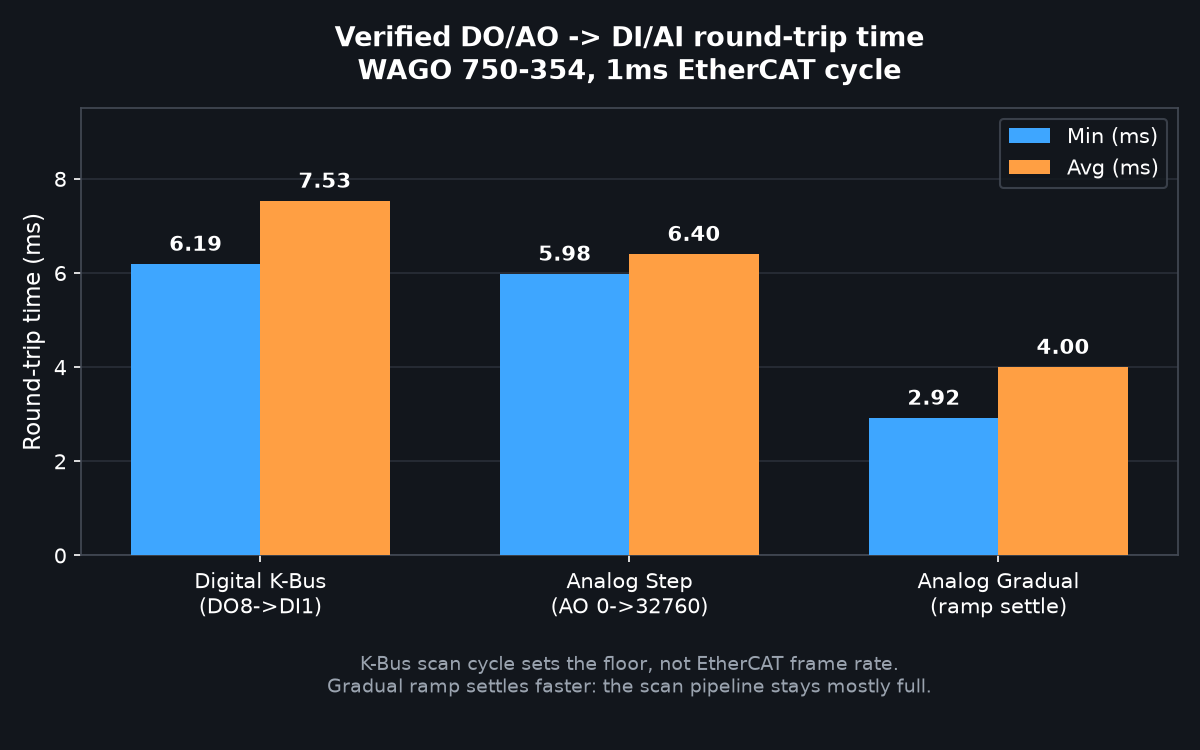
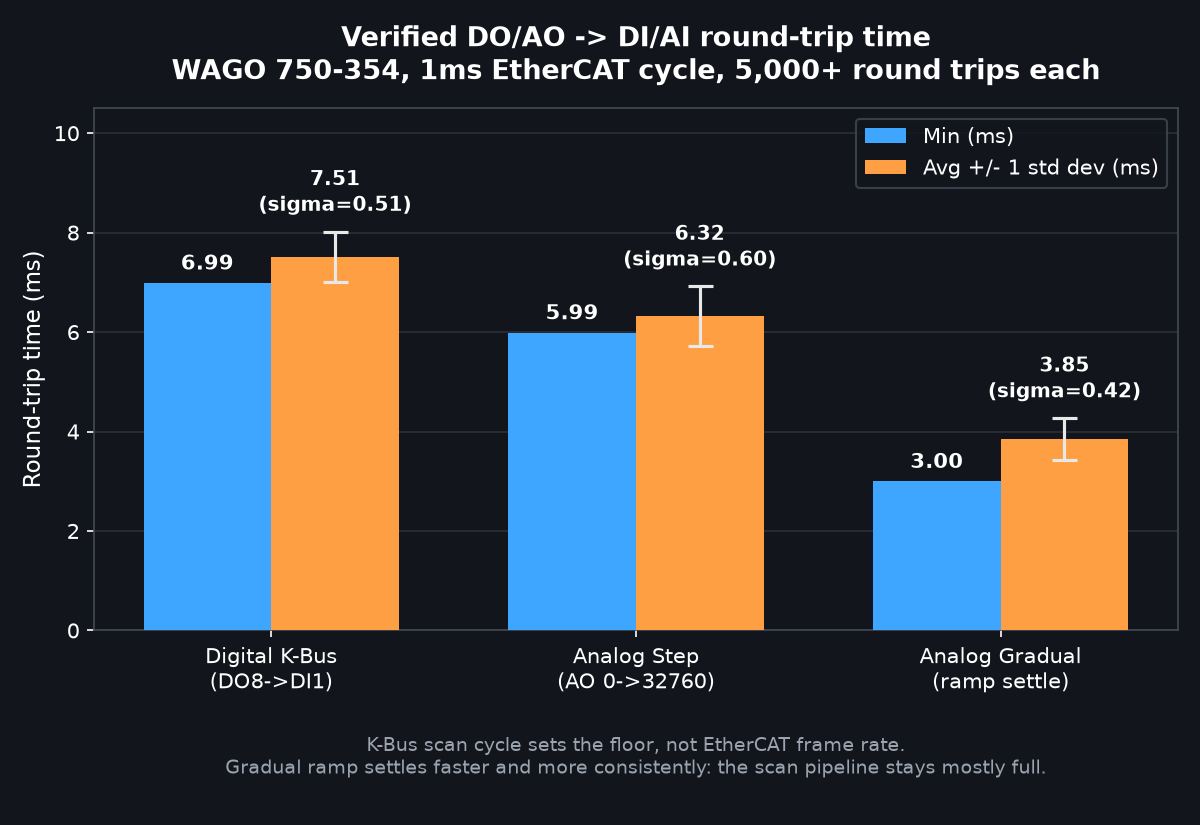
docs: add TUI walkthrough screenshots, real std dev on RTT charts
Add the existing TUI screenshots (launch from Portainer, browse the
coupler, read/write digital and analog data points, browse the
EtherCATKbusRttProbe control and RTT registers live) into Step 6 and the
K-Bus section, so TUI usage is shown, not just described.

Add real standard-deviation tracking to EtherCATKbusRttProbe (Welford's
online algorithm, numerically stable over millions of samples unlike a
running sum of squares) for the digital and both analog round trips, and
use it as error bars on the digital/analog comparison chart instead of
just min/avg bars.

Also fixes a variance-poisoning bug uncovered while adding this: the very
first round trip after each connect includes an unknown K-Bus resync
delay and was being recorded as a real sample, which barely affects the
mean but permanently distorts Welford's running variance (a single huge
outlier needs millions of steady-state samples to dilute). That first
round trip is now discarded from all stats, not just used to flip
Connected true.

The K-Bus scan-position chart keeps its original min/avg data without
error bars - a retest to get std dev for it found the 16ch loopback
wiring no longer responding, unlike the production DO8/DI1 and AO1/AI1
loopbacks which are still fine, so no fabricated data was added there.

Changed region(s): [[0.0, 0.0307, 0.9867, 0.9507], [0.8325, 0.4293, 0.9558, 0.552], [0.9558, 0.1227, 0.9867, 0.1533]]

diff --git a/control/ethercat-kbus-rtt-probe/src/EtherCATKbusRttProbe.cpp b/control/ethercat-kbus-rtt-probe/src/EtherCATKbusRttProbe.cpp
@@ -1,15 +1,25 @@
 #include "EtherCATKbusRttProbe.hpp"
 
+#include <cmath>
+
 /// Registers EtherCATKbusRttProbe with Xentara.
 const xentara::ControlExporter<EtherCATKbusRttProbe> kEtherCATKbusRttProbe;
 
 void EtherCATKbusRttProbe::RoundTripStats::record(xentara::RunContext &context, double elapsedMs)
 {
-    msSum += elapsedMs;
     ++sampleCount;
 
+    // Welford's online algorithm for mean and variance.
+    const auto delta = elapsedMs - msMean;
+    msMean += delta / static_cast<double>(sampleCount);
+    const auto delta2 = elapsedMs - msMean;
+    m2 += delta * delta2;
+
+    const auto stdDev = sampleCount > 1 ? std::sqrt(m2 / static_cast<double>(sampleCount - 1)) : 0.0;
+
     msLastOut.write(context, elapsedMs);
-    msAvgOut.write(context, msSum / static_cast<double>(sampleCount));
+    msAvgOut.write(context, msMean);
+    msStdDevOut.write(context, stdDev);
     sampleCountOut.write(context, sampleCount);
 
     if (elapsedMs < msMin)
@@ -36,11 +46,12 @@ void EtherCATKbusRttProbe::initialize(xentara::InitContext &context)
     diIn = context.config().getDataPoint("Di");
 
     kbusConnectedOut = context.config().getDataPoint("KbusConnected");
-    kbusCycleLastMsOut = context.config().getDataPoint("KbusCycleLastMs");
-    kbusCycleMinMsOut = context.config().getDataPoint("KbusCycleMinMs");
-    kbusCycleMaxMsOut = context.config().getDataPoint("KbusCycleMaxMs");
-    kbusCycleAvgMsOut = context.config().getDataPoint("KbusCycleAvgMs");
-    kbusSampleCountOut = context.config().getDataPoint("KbusSampleCount");
+    kbusCycle.msLastOut = context.config().getDataPoint("KbusCycleLastMs");
+    kbusCycle.msMinOut = context.config().getDataPoint("KbusCycleMinMs");
+    kbusCycle.msMaxOut = context.config().getDataPoint("KbusCycleMaxMs");
+    kbusCycle.msAvgOut = context.config().getDataPoint("KbusCycleAvgMs");
+    kbusCycle.msStdDevOut = context.config().getDataPoint("KbusCycleStdMs");
+    kbusCycle.sampleCountOut = context.config().getDataPoint("KbusSampleCount");
 
     aoOut = context.config().getDataPoint("Ao");
     aiIn = context.config().getDataPoint("Ai");
@@ -50,11 +61,13 @@ void EtherCATKbusRttProbe::initialize(xentara::InitContext &context)
     analogStep.msMinOut = context.config().getDataPoint("AnalogStepMinMs");
     analogStep.msMaxOut = context.config().getDataPoint("AnalogStepMaxMs");
     analogStep.msAvgOut = context.config().getDataPoint("AnalogStepAvgMs");
+    analogStep.msStdDevOut = context.config().getDataPoint("AnalogStepStdMs");
     analogStep.sampleCountOut = context.config().getDataPoint("AnalogStepSampleCount");
     analogGradual.msLastOut = context.config().getDataPoint("AnalogGradualLastMs");
     analogGradual.msMinOut = context.config().getDataPoint("AnalogGradualMinMs");
     analogGradual.msMaxOut = context.config().getDataPoint("AnalogGradualMaxMs");
     analogGradual.msAvgOut = context.config().getDataPoint("AnalogGradualAvgMs");
+    analogGradual.msStdDevOut = context.config().getDataPoint("AnalogGradualStdMs");
     analogGradual.sampleCountOut = context.config().getDataPoint("AnalogGradualSampleCount");
 }
 
@@ -121,29 +134,24 @@ void EtherCATKbusRttProbe::stepDigitalKbus(xentara::RunContext &context, std::ch
 
     if (!kbusConnected)
     {
+        // This first round trip's elapsed time includes however long the
+        // K-Bus took to resync after startup - anywhere from milliseconds
+        // to several seconds - so it is not a real measurement. Recording
+        // it would permanently distort the running variance: the mean and
+        // min recover from one huge sample quickly, but Welford's M2 does
+        // not, it would take millions of steady-state samples to dilute
+        // it back down. Mark connected and skip straight to the next
+        // round instead.
         kbusConnected = true;
         kbusConnectedOut.write(context, true);
+        targetValue = !targetValue;
+        waitStart = now;
+        cyclesWaited = 0;
+        return;
     }
 
     const auto elapsedMs = std::chrono::duration<double, std::milli>(now - waitStart).count();
-
-    kbusMsSum += elapsedMs;
-    ++kbusSampleCount;
-
-    kbusCycleLastMsOut.write(context, elapsedMs);
-    kbusCycleAvgMsOut.write(context, kbusMsSum / static_cast<double>(kbusSampleCount));
-    kbusSampleCountOut.write(context, kbusSampleCount);
-
-    if (elapsedMs < kbusMsMin)
-    {
-        kbusMsMin = elapsedMs;
-        kbusCycleMinMsOut.write(context, kbusMsMin);
-    }
-    if (elapsedMs > kbusMsMax)
-    {
-        kbusMsMax = elapsedMs;
-        kbusCycleMaxMsOut.write(context, kbusMsMax);
-    }
+    kbusCycle.record(context, elapsedMs);
 
     // Flip target and start the next round.
     targetValue = !targetValue;
@@ -180,8 +188,15 @@ void EtherCATKbusRttProbe::stepAnalog(xentara::RunContext &context, std::chrono:
 
         if (!analogConnected)
         {
+            // Same reasoning as the digital connectivity check: this first
+            // round trip includes an unknown startup delay and would
+            // permanently distort the variance if recorded. Mark connected
+            // and move on without recording it.
             analogConnected = true;
             analogConnectedOut.write(context, true);
+            analogPhase = AnalogPhase::GradualDown;
+            analogPhaseJustEntered = true;
+            return;
         }
 
         const auto elapsedMs = std::chrono::duration<double, std::milli>(now - analogWaitStart).count();

diff --git a/control/ethercat-kbus-rtt-probe/src/EtherCATKbusRttProbe.hpp b/control/ethercat-kbus-rtt-probe/src/EtherCATKbusRttProbe.hpp
@@ -60,21 +60,29 @@ private:
     static constexpr std::uint16_t kAnalogTolerance{40};
     static constexpr std::uint16_t kAnalogRampStepPerCycle{100};
 
-    /// Bundles the min/max/avg/sample-count bookkeeping and the matching
-    /// output data points for one round-trip measurement. Used for the
-    /// analog step and gradual measurements; the digital Kbus measurement
-    /// predates this and keeps its own hand-written fields below.
+    /// Bundles the min/max/avg/std-dev/sample-count bookkeeping and the
+    /// matching output data points for one round-trip measurement. Used
+    /// for the digital Kbus and both analog measurements.
+    ///
+    /// Standard deviation is computed online via Welford's algorithm
+    /// (mean and M2, the running sum of squared deviations from the mean)
+    /// rather than accumulating sum-of-squares directly, since that is
+    /// numerically stable over millions of samples - a plain sum of
+    /// squares of millisecond-scale values loses precision in a double
+    /// long before that.
     struct RoundTripStats
     {
         double msMin{std::numeric_limits<double>::infinity()};
         double msMax{0.0};
-        double msSum{0.0};
+        double msMean{0.0};
+        double m2{0.0};
         std::uint64_t sampleCount{0};
 
         xentara::DoubleOutput msLastOut;
         xentara::DoubleOutput msMinOut;
         xentara::DoubleOutput msMaxOut;
         xentara::DoubleOutput msAvgOut;
+        xentara::DoubleOutput msStdDevOut;
         xentara::UInt64Output sampleCountOut;
 
         void record(xentara::RunContext &context, double elapsedMs);
@@ -108,17 +116,8 @@ private:
     std::chrono::steady_clock::time_point waitStart{};
     std::uint64_t cyclesWaited{0};
 
-    double kbusMsMin{std::numeric_limits<double>::infinity()};
-    double kbusMsMax{0.0};
-    double kbusMsSum{0.0};
-    std::uint64_t kbusSampleCount{0};
-
     xentara::BooleanOutput kbusConnectedOut;
-    xentara::DoubleOutput kbusCycleLastMsOut;
-    xentara::DoubleOutput kbusCycleMinMsOut;
-    xentara::DoubleOutput kbusCycleMaxMsOut;
-    xentara::DoubleOutput kbusCycleAvgMsOut;
-    xentara::UInt64Output kbusSampleCountOut;
+    RoundTripStats kbusCycle;
 
     /// Analog AO->AI loopback round-trip state.
     xentara::UInt16Output aoOut;

diff --git a/README.md b/README.md
@@ -187,18 +187,37 @@ From Portainer: **Containers -> xentara-tryout -> Console -> Connect**, then:
 xentara-tui --host localhost --port 8080 --user xentara
 ```
 
+![Launching the TUI from the Portainer container console](images/tui-start-from-portainer.png)
+
 (Port **8080**.) Navigate the model tree with the arrow keys, Enter to descend.
 The [Xentara on Docker: Quick Start](https://kb.xentara.io/articles/xentara-on-docker-quick-start-guide)
 guide covers the same TUI walkthrough if you want the vendor's version.
 
+![Navigating to the discovered EtherCAT bus and coupler in the model tree](images/tui-wago-coupler-750-354.png)
+
 - **Read inputs:** open the discovered bus (or the `WagoIO` datapoint group if
   you added one) and watch input channels update live as you toggle physical
   inputs.
+
+  ![Browsing a digital output data point (WagoIO.DO_8ch_1), live value and quality shown on the right](images/tui-do.png)
+
 - **Write an output:** select a digital output, press the write key, type
   `true`, Enter. It reaches the coupler on the next bus cycle and the physical
   output switches. Type `false` to release it.
+
+  ![Writing true to a digital output from the TUI's write dialog](images/tui-do-write.png)
+
+- **Analog values work the same way** - select an analog data point (e.g.
+  `WagoIO.AO_2`) and write a raw count instead of `true`/`false`.
+
+  | Browse | Write |
+  |---|---|
+  | ![Browsing an analog output data point (WagoIO.AO_2)](images/tui-analog.png) | ![Writing a new raw value to an analog output](images/tui-analog-write.png) |
+
 - **(If using the probe) cycle time:** open the `RTT` group for live
   `RttAvgMs` / `RttMinMs` / `RttMaxMs`.
+
+  ![Browsing RTT.RttAvgMs, the internal step-to-step cycle-time register](images/tui-variable-rtt-1ms.png)
 
 > Physical outputs switch real hardware. Know what's wired before toggling.
 
@@ -216,15 +235,27 @@ self-contained reference client. Full protocol: the
 
 `RTT.RttLastMs`/`MinMs`/`MaxMs`/`AvgMs` (from `EtherCATRttProbe`, above) measure
 the step()-to-step() interval, i.e. how close the achieved cycle is to the
-configured Timer period. That is a software/scheduling number, not a
+configured Timer period (browsable in the TUI as `Track EtherCAT
+Control.1ms Timer`, below). That is a software/scheduling number, not a
 hardware one: it says nothing about how long a physical output actually
 takes to reach a physical input.
+
+![Browsing the 1ms Timer that drives the EtherCAT control track](images/tui-variabl-track-time.png)
 
 `control/ethercat-kbus-rtt-probe/` adds that missing measurement: a real
 DO->DI round trip and a real AO->AI round trip, each gated on an actual
 connectivity check (`KbusConnected`/`AnalogConnected` only ever flip
 false -> true, on a real observed match, never on a timeout) so a missing
 wire reads as "not connected," never as a plausible-looking wrong number.
+
+It shows up in the TUI like any other control and register group - browse
+to `Control.EtherCATKbusRttProbe` to confirm it's loaded, or straight to
+`RTT.KbusCycleAvgMs` (or any of the other `RTT.*` registers) to watch the
+live numbers:
+
+| The control, as a Microservice | A live register value |
+|---|---|
+| ![Browsing Control.EtherCATKbusRttProbe in the TUI, shown as a C++ control microservice](images/tui-microservice-cpp.png) | ![Browsing RTT.KbusCycleAvgMs live, value 7.55ms](images/tui-kbus-cycle-avg.png) |
 
 ![Digital vs. analog step vs. analog gradual round-trip time, measured on real hardware](images/rtt-comparison.png)
 